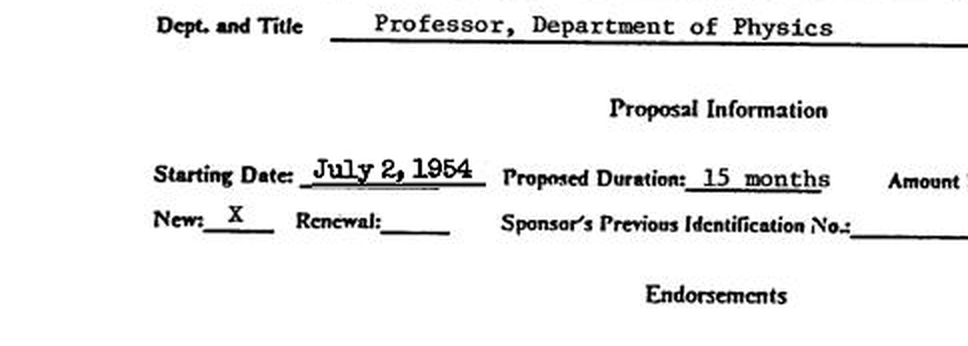
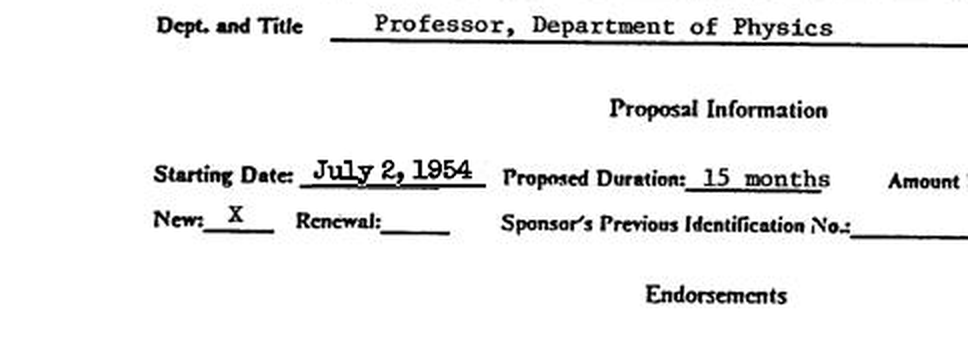
Put a redrawn rule on the same row as the line it replaces
The colour fix left the line still sitting slightly high. Measured per column
across the erased box, its ink centre was 0.31px above the original's, while the
untouched line either side of the box was of course exact.

The measurements and the drawing disagreed about what a row index means. Row r
covers [r, r+1) and has its centre at r+0.5, which is the coordinate system
draw_rule works in, but the fit ran through bare row indices, so every redrawn
line landed half a pixel high. Weighting by darkness had hidden how systematic
this was: the residual offset happened to be small enough to read as noise.

The centre is now measured at r+0.5, and the offset across the same columns is
+0.09px (median +0.14). The two tests that asserted rule positions were written
against the old convention and now say what a rule's position means: the centre
of its ink, so a line drawn on row r sits at r+0.5.

Changed region(s): [[0.3099, 0.4335, 0.5269, 0.5491]]

diff --git a/tests/test_background.py b/tests/test_background.py
@@ -104,7 +104,8 @@ def test_faint_notebook_rules_under_dark_handwriting_are_found():
     layout.draw_text(img, (215, 72), "5-17-31 box", HAND, 44)
     gray = np.asarray(img.convert("L"))
     rules = background.detect_rules(gray, BOX)
-    assert sorted(round(r.y_at(300)) for r in rules) == [88, 119]
+    # A rule's position is the centre of its ink, so a line drawn on row r sits at r + 0.5.
+    assert [round(y - 0.5) for y in sorted(r.y_at(300) for r in rules)] == [88, 119]
     assert all(220 <= r.gray <= 240 for r in rules)  # redrawn as faint as they were
 
 
@@ -220,7 +221,7 @@ def test_a_redrawn_rule_keeps_the_original_line_dark_and_in_place():
     [rule] = background.detect_rules(gray, box)
     assert rule.gray < 30, "the redrawn line should carry the core's darkness, not a blend with its edges"
     assert rule.thickness < 2.0, "one dark row, not the full extent of everything under the threshold"
-    assert abs(rule.y_at(np.array([250.0]))[0] - row) < 0.5
+    assert abs(rule.y_at(np.array([250.0]))[0] - (row + 0.5)) < 0.4  # ink centre, not row index
 
     canvas = rgb.copy()
     background.blank(canvas, rgb, gray, box, np.random.default_rng(0), paper_fill=False, keep_lines=True)

diff --git a/src/doc_redact/background.py b/src/doc_redact/background.py
@@ -224,7 +224,9 @@ def detect_rules(gray: np.ndarray, bbox: BBox, words: list[Word] | None = None) 
             total = float(weight.sum())
             if total <= 0:
                 continue
-            centers.append(float(((ys[column] + y0) * weight).sum() / total))
+            # +0.5: row r covers [r, r+1) and is centred at r+0.5, which is the coordinate system
+            # draw_rule works in. Fitting through bare row indices drew every line half a pixel high.
+            centers.append(float(((ys[column] + y0 + 0.5) * weight).sum() / total))
             masses.append(total)
             cores.append(float(values[column].min()))
             widths.append(int(column.sum()))
